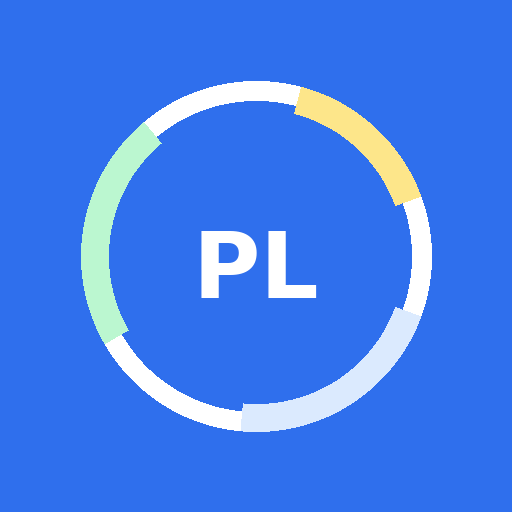
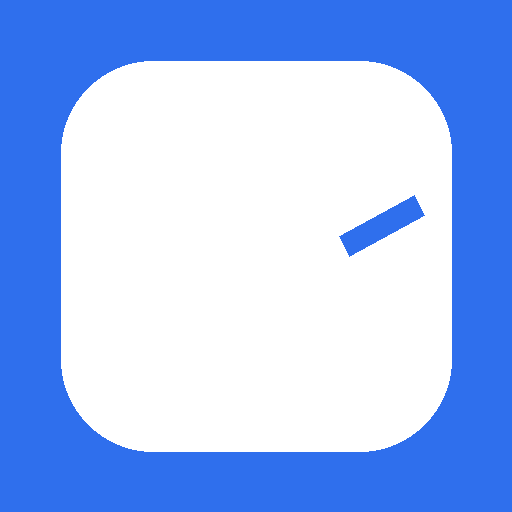
PlasmidLab

diff --git a/sw.js b/sw.js
@@ -1,36 +1,34 @@
-const CACHE_NAME = 'plasmidlab-pwa-v1';
-const APP_SHELL = [
+const CACHE_NAME = 'plasmidlab-v2-1-8-pwa-official-v1';
+const APP_ASSETS = [
   './',
   './index.html',
   './manifest.json',
   './icon-192.png',
-  './icon-512.png'
+  './icon-512.png',
+  './README_使用说明.txt'
 ];
 
 self.addEventListener('install', event => {
   event.waitUntil(
-    caches.open(CACHE_NAME).then(cache => cache.addAll(APP_SHELL))
+    caches.open(CACHE_NAME).then(cache => cache.addAll(APP_ASSETS)).then(() => self.skipWaiting())
   );
-  self.skipWaiting();
 });
 
 self.addEventListener('activate', event => {
   event.waitUntil(
-    caches.keys().then(keys => Promise.all(
-      keys.filter(key => key !== CACHE_NAME).map(key => caches.delete(key))
-    ))
+    caches.keys().then(keys => Promise.all(keys.map(key => {
+      if (key !== CACHE_NAME) return caches.delete(key);
+    }))).then(() => self.clients.claim())
   );
-  self.clients.claim();
 });
 
 self.addEventListener('fetch', event => {
   if (event.request.method !== 'GET') return;
   event.respondWith(
     caches.match(event.request).then(cached => {
-      if (cached) return cached;
-      return fetch(event.request).then(response => {
+      return cached || fetch(event.request).then(response => {
         const copy = response.clone();
-        caches.open(CACHE_NAME).then(cache => cache.put(event.request, copy));
+        caches.open(CACHE_NAME).then(cache => cache.put(event.request, copy)).catch(()=>{});
         return response;
       }).catch(() => caches.match('./index.html'));
     })

diff --git a/index.html b/index.html
@@ -3,7 +3,7 @@
 <head>
 <meta charset="UTF-8" />
 <meta name="viewport" content="width=device-width, initial-scale=1.0" />
-<title>PlasmidLab v2.1.5 - Feature删除按钮稳定修复版</title>
+<title>PlasmidLab v2.1.8 - PWA正式版</title>
 <style>
 :root{
   --bg:#f7f8fb;--panel:#fff;--text:#20242a;--muted:#687184;--line:#dfe4ee;--pri:#2f6fed;--pri2:#e8f0ff;--good:#168a45;--bad:#c0392b;--warn:#b36b00;--shadow:0 8px 24px rgba(17,24,39,.08);
@@ -245,13 +245,15 @@ header{position:relative!important;top:auto!important;z-index:20!important}
 </style>
 
 <!-- PlasmidLab PWA support -->
-<link rel="manifest" href="manifest.json">
+<link rel="manifest" href="./manifest.json">
 <meta name="theme-color" content="#2f6fed">
 <meta name="apple-mobile-web-app-capable" content="yes">
-<meta name="apple-mobile-web-app-status-bar-style" content="default">
 <meta name="apple-mobile-web-app-title" content="PlasmidLab">
-<link rel="apple-touch-icon" href="icon-512.png">
-<meta name="mobile-web-app-capable" content="yes">
+<meta name="apple-mobile-web-app-status-bar-style" content="default">
+<link rel="apple-touch-icon" href="./icon-512.png">
+<link rel="icon" type="image/png" sizes="192x192" href="./icon-192.png">
+<link rel="icon" type="image/png" sizes="512x512" href="./icon-512.png">
+
 </head>
 <body>
 <header><h1>PlasmidLab v2.1.8 删除按钮直修 / GBK导出版</h1><div class="sub">单文件 HTML，本地运行。支持 FASTA / GenBank / 纯序列；SnapGene 导出的 PNG/JPG 不能反推出完整序列和 features，请优先导出 GenBank。 <button id="toggleSidebarBtn" type="button" class="headerBtn">隐藏左侧导入栏</button></div></header>
@@ -6026,18 +6028,18 @@ function exportEmbeddedHtml(){
     const loader='\n<script id="plasmidlab-embedded-data" type="application/json">'+payload+'</scr'+'ipt>\n'
       +'<script id="plasmidlab-embedded-loader">(function(){function load(){try{var el=document.getElementById("plasmidlab-embedded-data");if(!el)return;var json=decodeURIComponent(escape(atob((el.textContent||"").trim())));var data=JSON.parse(json||"[]");if(typeof plasmids!=="undefined"){plasmids=data||[];active=0;try{openedPlasmidIds=[];}catch(e){}plasmids.forEach(function(p){try{p.enzymes=scanEnzymes(p)}catch(e){}});if(typeof renderAll==="function")renderAll();try{msg("importStatus","已从此 HTML 内置数据自动载入 "+plasmids.length+" 个质粒。")}catch(e){}}}catch(e){console.error("embedded project load failed",e);try{msg("importStatus","内置质粒库载入失败："+(e&&e.message?e.message:e))}catch(_){}}}if(document.readyState==="loading")document.addEventListener("DOMContentLoaded",load);else setTimeout(load,0);})();</scr'+'ipt>\n';
     html=html.replace('
-<!-- Register service worker for offline PWA use -->
 <script>
 (function(){
-  if ('serviceWorker' in navigator) {
+  if ('serviceWorker' in navigator && location.protocol !== 'file:') {
     window.addEventListener('load', function(){
       navigator.serviceWorker.register('./sw.js').catch(function(err){
-        console.warn('Service worker registration failed:', err);
+        console.warn('PlasmidLab service worker registration failed:', err);
       });
     });
   }
 })();
 </script>
+
 </body>', loader+'</body>');
     const name=('PlasmidLab_质粒库_'+(new Date().toISOString().slice(0,10))).replace(/[^\w\u4e00-\u9fa5.-]+/g,'-');
     download(name+'_embedded_PlasmidLab.html',html,'text/html');